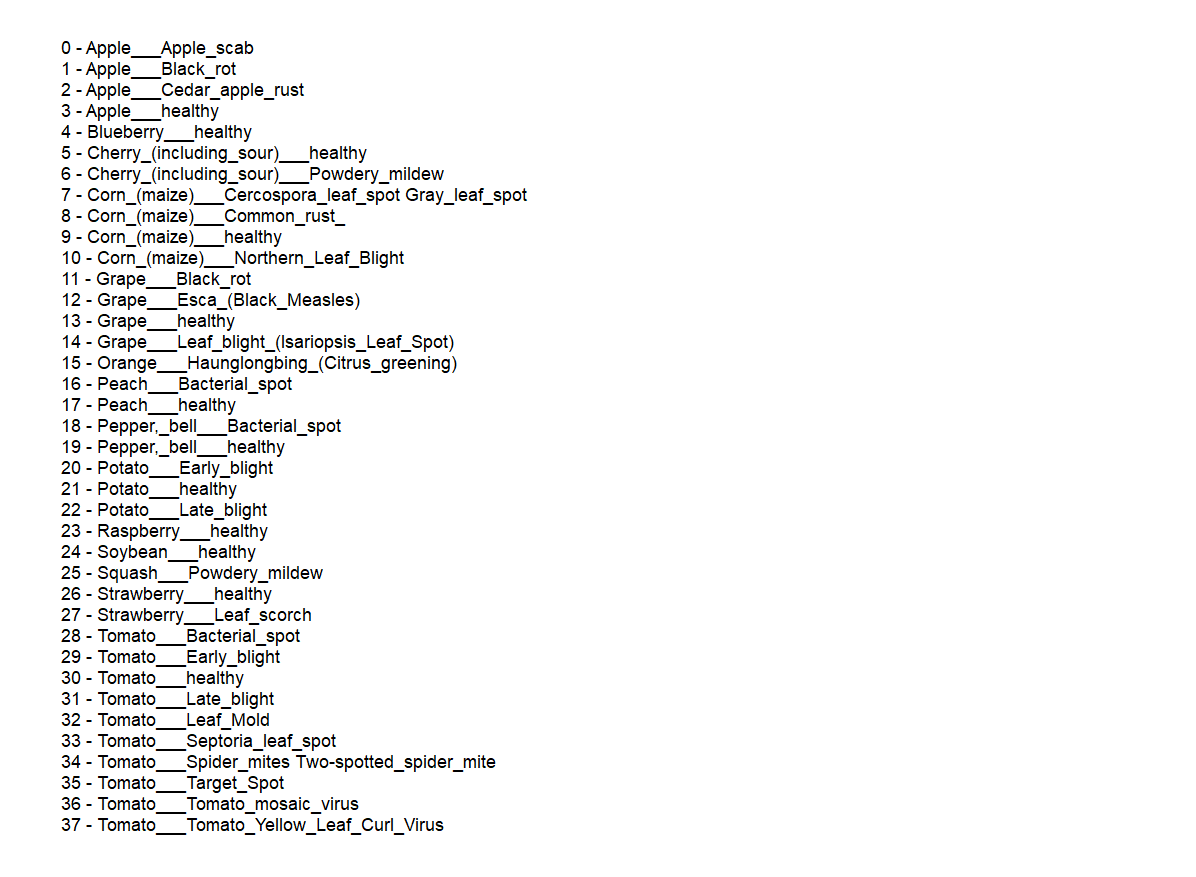
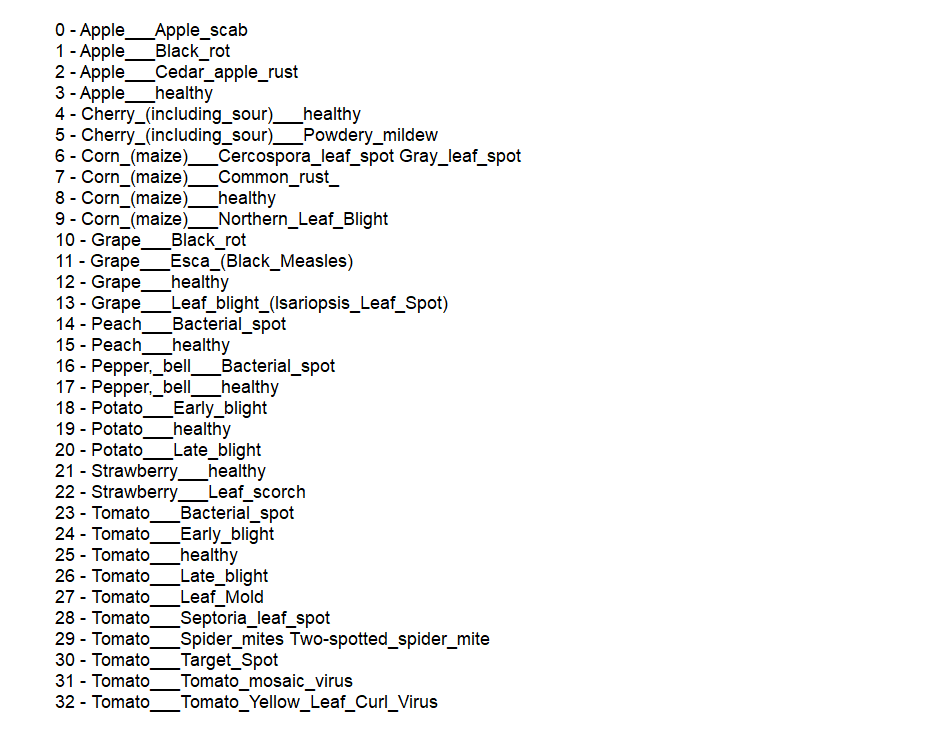
Updated code to suppored colored images with CNN.

Changed region(s): [[0.0305, 0.031, 0.5483, 0.9609]]

diff --git a/plant_classes.py b/plant_classes.py
@@ -1,12 +1,11 @@
 plant_classes = ['Apple___Apple_scab', 'Apple___Black_rot', 'Apple___Cedar_apple_rust', 'Apple___healthy',
-                 'Blueberry___healthy', 'Cherry_(including_sour)___healthy', 'Cherry_(including_sour)___Powdery_mildew',
+                 'Cherry_(including_sour)___healthy', 'Cherry_(including_sour)___Powdery_mildew',
                  'Corn_(maize)___Cercospora_leaf_spot Gray_leaf_spot', 'Corn_(maize)___Common_rust_',
                  'Corn_(maize)___healthy', 'Corn_(maize)___Northern_Leaf_Blight', 'Grape___Black_rot',
                  'Grape___Esca_(Black_Measles)', 'Grape___healthy', 'Grape___Leaf_blight_(Isariopsis_Leaf_Spot)',
-                 'Orange___Haunglongbing_(Citrus_greening)', 'Peach___Bacterial_spot', 'Peach___healthy',
+                 'Peach___Bacterial_spot', 'Peach___healthy',
                  'Pepper,_bell___Bacterial_spot', 'Pepper,_bell___healthy', 'Potato___Early_blight',
-                 'Potato___healthy', 'Potato___Late_blight', 'Raspberry___healthy', 'Soybean___healthy',
-                 'Squash___Powdery_mildew', 'Strawberry___healthy', 'Strawberry___Leaf_scorch',
+                 'Potato___healthy', 'Potato___Late_blight', 'Strawberry___healthy', 'Strawberry___Leaf_scorch',
                  'Tomato___Bacterial_spot', 'Tomato___Early_blight', 'Tomato___healthy', 'Tomato___Late_blight',
                  'Tomato___Leaf_Mold', 'Tomato___Septoria_leaf_spot', 'Tomato___Spider_mites Two-spotted_spider_mite',
                  'Tomato___Target_Spot', 'Tomato___Tomato_mosaic_virus', 'Tomato___Tomato_Yellow_Leaf_Curl_Virus']

diff --git a/cnn.py b/cnn.py
@@ -8,10 +8,10 @@ from cnn_util import create_classifier
 
 train_images, train_labels, test_images, test_labels = prepare(root_directory='Dataset')
 
-# classifier = create_classifier()
-# classifier.fit(train_images, train_labels, batch_size=32, epochs=15)
-# classifier.save('15_128_128_gray.h5')
-classifier = load_model('15_128_128_gray.h5')
+classifier = create_classifier()
+classifier.fit(train_images, train_labels, batch_size=32, epochs=15)
+classifier.save('15_128_128_rc.h5')
+# classifier = load_model('15_128_128_gray.h5')
 
 prediction = classifier.predict(test_images)
 winners = list(map(lambda win: list(win).index(max(win)), prediction))
@@ -22,7 +22,7 @@ plt.xlabel('Predicted')
 plt.ylabel('Labels')
 plt.show()
 
-number_labels = list(range(0, 38))
+number_labels = list(range(0, 33))
 report = classification_report(test_labels, winners, target_names=number_labels, output_dict=True)
 sb.heatmap(pd.DataFrame(report).iloc[:-1, :].T, annot=True)
 plt.show()

diff --git a/cnn_util.py b/cnn_util.py
@@ -10,7 +10,7 @@ from tensorflow.keras.optimizers import Adam
 def create_classifier():
     classifier = Sequential()
 
-    classifier.add(Conv2D(input_shape=(128, 128, 1), activation='relu', filters=32, kernel_size=(3, 3), padding="same"))
+    classifier.add(Conv2D(input_shape=(128, 128, 3), activation='relu', filters=32, kernel_size=(3, 3), padding="same"))
     classifier.add(MaxPool2D(pool_size=(3, 3)))
 
     classifier.add(Conv2D(activation='relu', filters=64, kernel_size=(3, 3), padding="same"))
@@ -30,7 +30,7 @@ def create_classifier():
     classifier.add(Flatten())
     classifier.add(Dense(units=1568, activation='relu'))
     classifier.add(Dropout(0.5))
-    classifier.add(Dense(units=38, activation='softmax'))
+    classifier.add(Dense(units=33, activation='softmax'))
 
     opt = Adam(learning_rate=0.0001)
     classifier.compile(optimizer=opt, loss='sparse_categorical_crossentropy', metrics=['accuracy'])

diff --git a/hog.py b/hog.py
@@ -45,7 +45,7 @@ x_train = reshape_data(x_train)
 print(x_train.shape)
 clf_svm = SVC(kernel='linear', probability=False, verbose=True)
 clf_svm.fit(x_train, train_labels.ravel())
-dump(clf_svm, 'svm_16_4_128.joblib')
+dump(clf_svm, 'svm_16_4_128_rc.joblib')
 
 # clf_svm = load('svm_model.joblib')
 # print("Loaded")
@@ -66,7 +66,7 @@ plt.xlabel('Predicted')
 plt.ylabel('Labels')
 plt.show()
 
-number_labels = list(range(0, 38))
+number_labels = list(range(0, 33))
 report = classification_report(test_labels, predictions, target_names=number_labels, output_dict=True)
 sb.heatmap(pd.DataFrame(report).iloc[:-1, :].T, annot=True)
 plt.show()

diff --git a/prepare_images.py b/prepare_images.py
@@ -15,9 +15,9 @@ def prepare(root_directory):
         path = root.split(os.sep)
         for file in files:
             image = cv2.imread(root + '\\' + file)
-            image = cv2.cvtColor(image, cv2.COLOR_BGR2GRAY)
+            image = cv2.cvtColor(image, cv2.COLOR_BGR2RGB)
             image = cv2.resize(image, (128, 128))
-            image = np.reshape(image, image.shape + (1,))
+            # image = np.reshape(image, image.shape + (1,))
             if 'train' in root:
                 train_images.append(image)
                 train_labels.append(plant_classes.index(path[-1]))

diff --git a/legend.py b/legend.py
@@ -1,0 +1,6 @@
+from plant_classes import plant_classes
+
+f = open("legend.txt", "w")
+for idx, x in enumerate(plant_classes):
+    f.write(f'{idx} - {x}\n')
+f.close()
